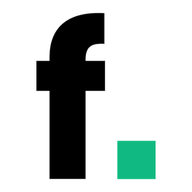
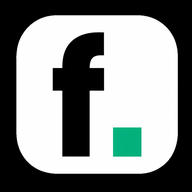
feat(branding): nuevo icono de app (f.) + wordmark fullsite en login
- Icono 'f.' (blanco+cuadro verde) regenerado en TODOS los tamanos desde la
  imagen del founder: favicon.ico (multi-size), favicon-16/32/512, apple-touch
  (180), icon-192/192v2/512/512v2 (PWA/manifest). Aplica a POS y dashboard
  (misma app Next).
- Wordmark 'fullsite.' (CSS crisp, blanco + cuadro verde) en la pantalla de
  login/PIN, arriba del teclado, como marca de producto.
- Bump SW v15->v16 para refrescar los iconos cacheados en los terminales.

diff --git a/dashboard-app/src/app/pos/layout.tsx b/dashboard-app/src/app/pos/layout.tsx
@@ -667,6 +667,11 @@ export default function POSLayout({ children }: Readonly<{ children: React.React
               }
             }}
           />
+          {/* Marca de producto Fullsite (wordmark en CSS, crisp) */}
+          <div className="mb-4 flex items-baseline justify-center" aria-label="Fullsite">
+            <span className="text-white font-black tracking-[-0.04em]" style={{ fontSize: 34 }}>fullsite</span>
+            <span className="inline-block bg-emerald-500" style={{ width: 11, height: 11, marginLeft: 3, borderRadius: 2 }} />
+          </div>
           <p className="text-slate-400 text-sm mt-2">
             {biometricAvailable ? 'Huella digital o PIN para abrir' : 'Ingresa tu PIN para abrir'}
           </p>

diff --git a/dashboard-app/public/sw.js b/dashboard-app/public/sw.js
@@ -1,7 +1,7 @@
 // Service Worker — Fullsite POS offline-first
 // Caches app shell, static assets, and API responses for true offline operation
 
-const CACHE_VERSION = 'v15'
+const CACHE_VERSION = 'v16'
 const STATIC_CACHE = `fullsite-static-${CACHE_VERSION}`
 const DYNAMIC_CACHE = `fullsite-dynamic-${CACHE_VERSION}`
 const API_CACHE = `fullsite-api-${CACHE_VERSION}`
